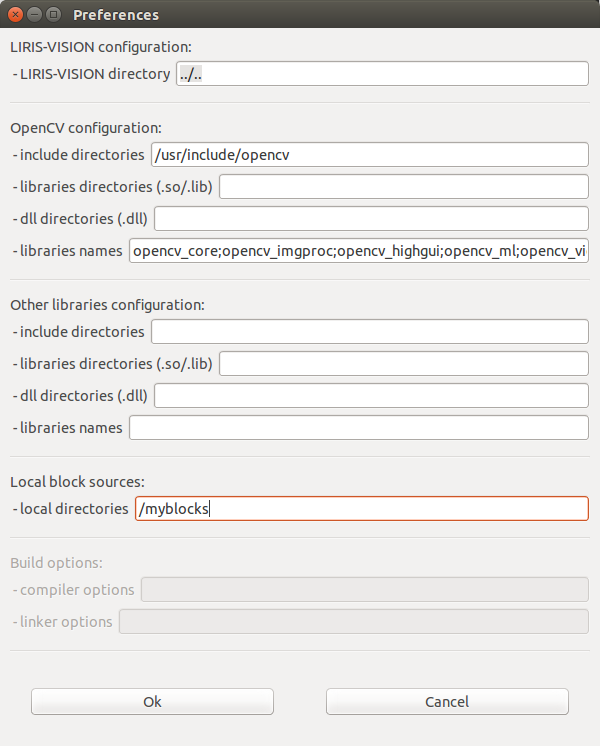
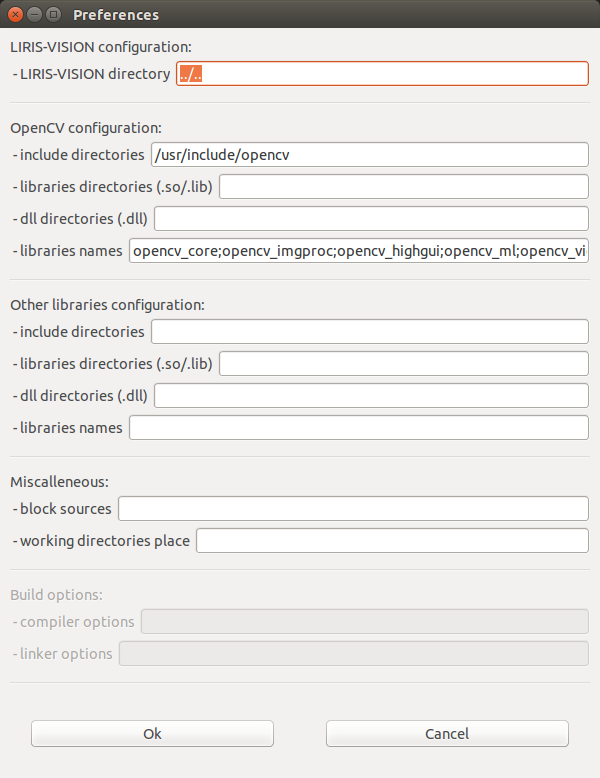
Update user guide

diff --git a/doc/user_guide.html b/doc/user_guide.html
@@ -129,7 +129,7 @@
 	</tr>
 </table>
 
-<h2>Miscellaneous</h2>
+<h2>Run examples</h2>
 
 <p>Useful examples can be accessed within the Examples menu:</p>
 
@@ -137,14 +137,17 @@
 <br>
 <br>
 
+<h2>Change configuration</h2>
+
 <p>The configuration of Starling can be changed through the preferences window. It is accessible by the 'Edit > Preferences' menu option.</p>
 <img src="user_guide/preferences_window.png" width="500"/>
 <p>
 The configuration parameters are:<br>
 - the LIRIS-VISION base directory (to use LIRIS-VISION blocks),<br>
 - informations on the OpenCV library to use,<br>
-- informations on other libraries to use,<br>
-- the places to search for local blocks.
+- informations on other libraries to use (for blocks that depends on libraries other than OpenCV),<br>
+- the places to search for extra block descriptions,<br>
+- the place where temporary working directories are created.
 </p>
 <p>Paths can be absolute or relative. Relative paths are relative to Starling directory.</p>
 <p>The preferences are saved in an xml file named '.starling.conf', in the user's home directory. Use the '-c' option at start up to use another configuration file.</p>
